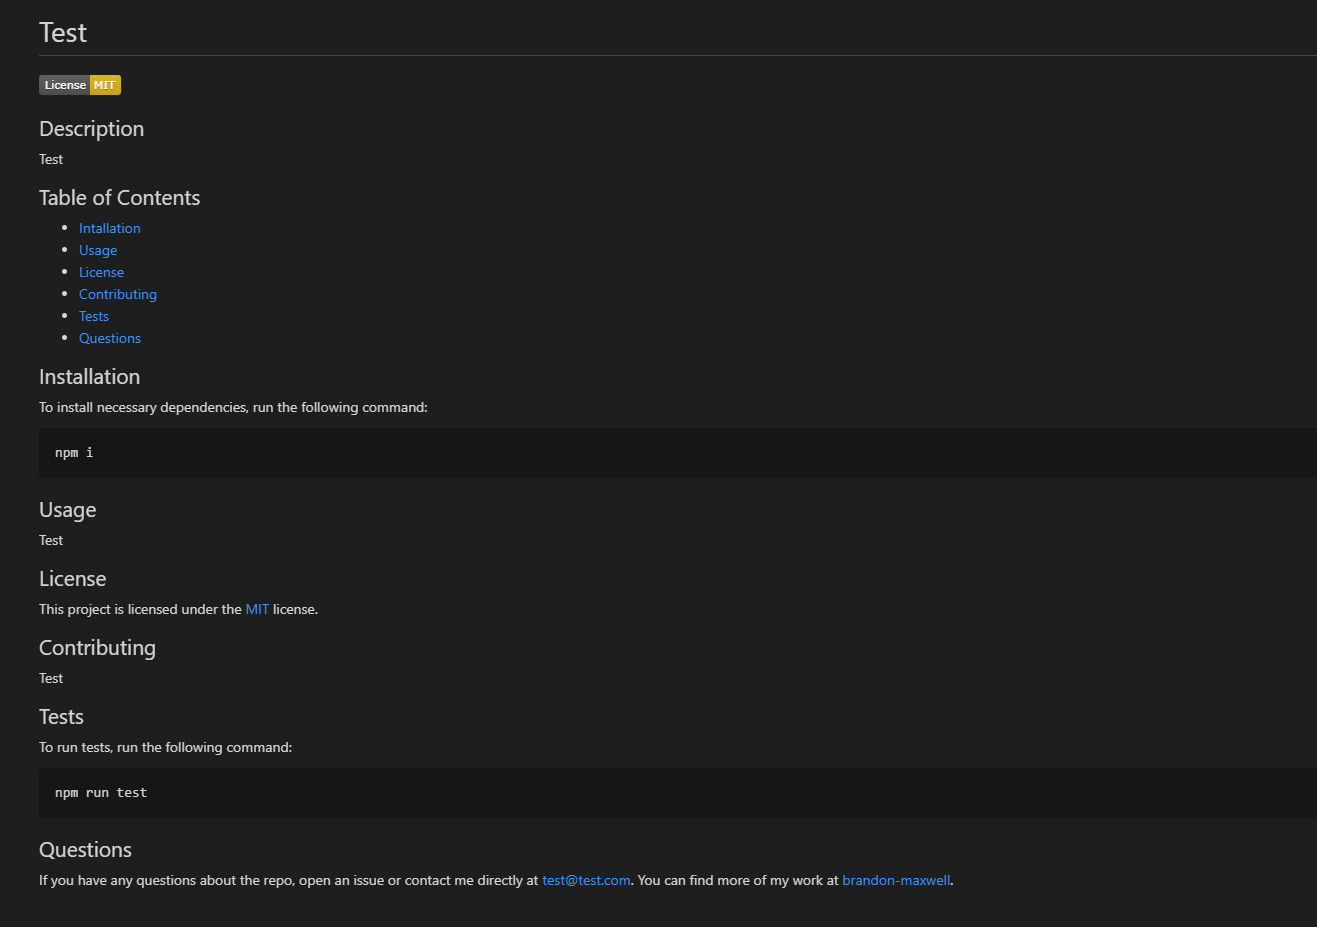
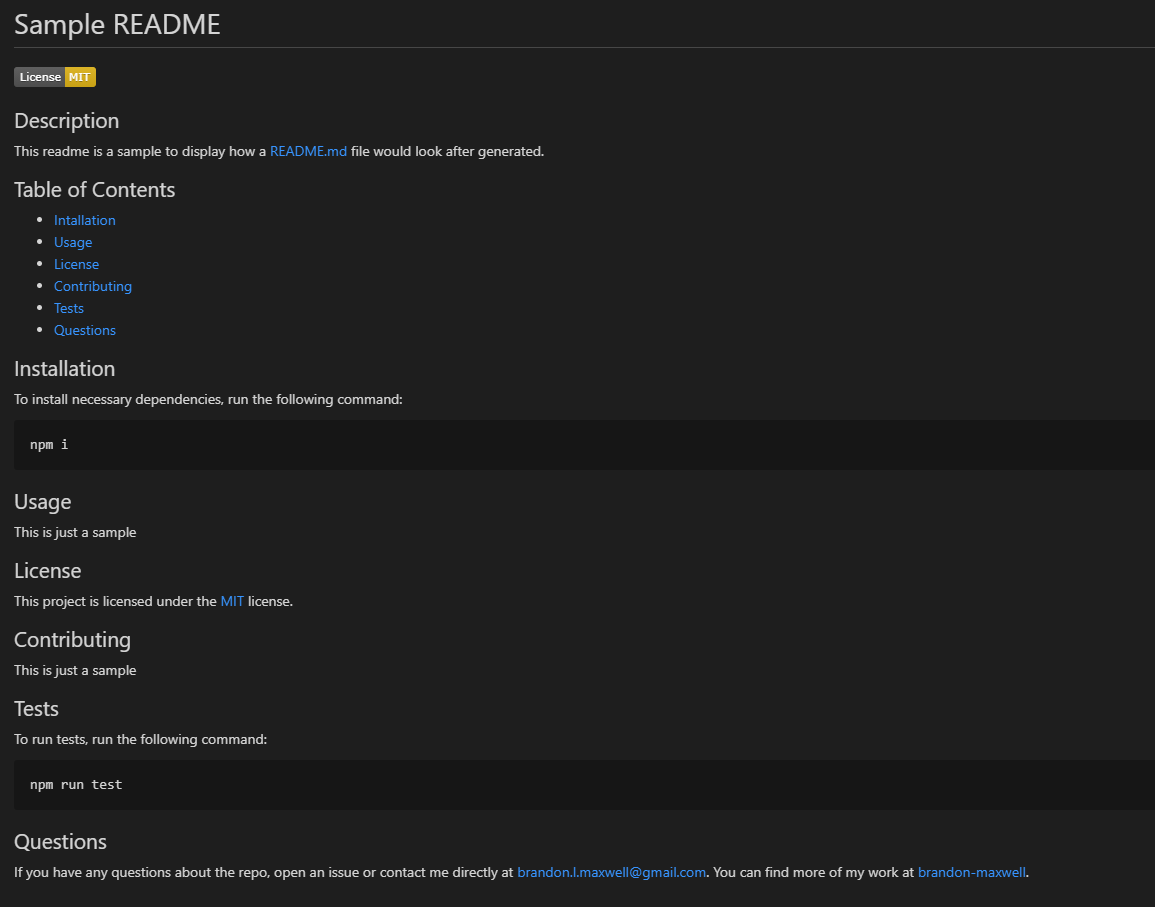
added sample README to JS folder to show a sample of end result. Also updated screenshot to reflect this one

diff --git a/js/Sample-README.md b/js/Sample-README.md
@@ -1,0 +1,37 @@
+# Sample README
+[![License: MIT](https://img.shields.io/badge/License-MIT-yellow.svg)](https://opensource.org/licenses/MIT)
+
+## Description
+This readme is a sample to display how a README.md file would look after generated.
+
+## Table of Contents
+* [Intallation](#installation)
+* [Usage](#usage)
+* [License](#license)
+* [Contributing](#contributing)
+* [Tests](#tests)
+* [Questions](#questions)
+
+## Installation
+To install necessary dependencies, run the following command:
+~~~
+npm i
+~~~
+
+## Usage
+This is just a sample
+
+## License 
+This project is licensed under the [MIT](https://opensource.org/licenses/MIT) license.
+
+## Contributing
+This is just a sample
+
+## Tests
+To run tests, run the following command:
+~~~
+npm run test
+~~~
+
+## Questions
+If you have any questions about the repo, open an issue or contact me directly at brandon.l.maxwell@gmail.com. You can find more of my work at [brandon-maxwell](https://github.com/brandon-maxwell).
